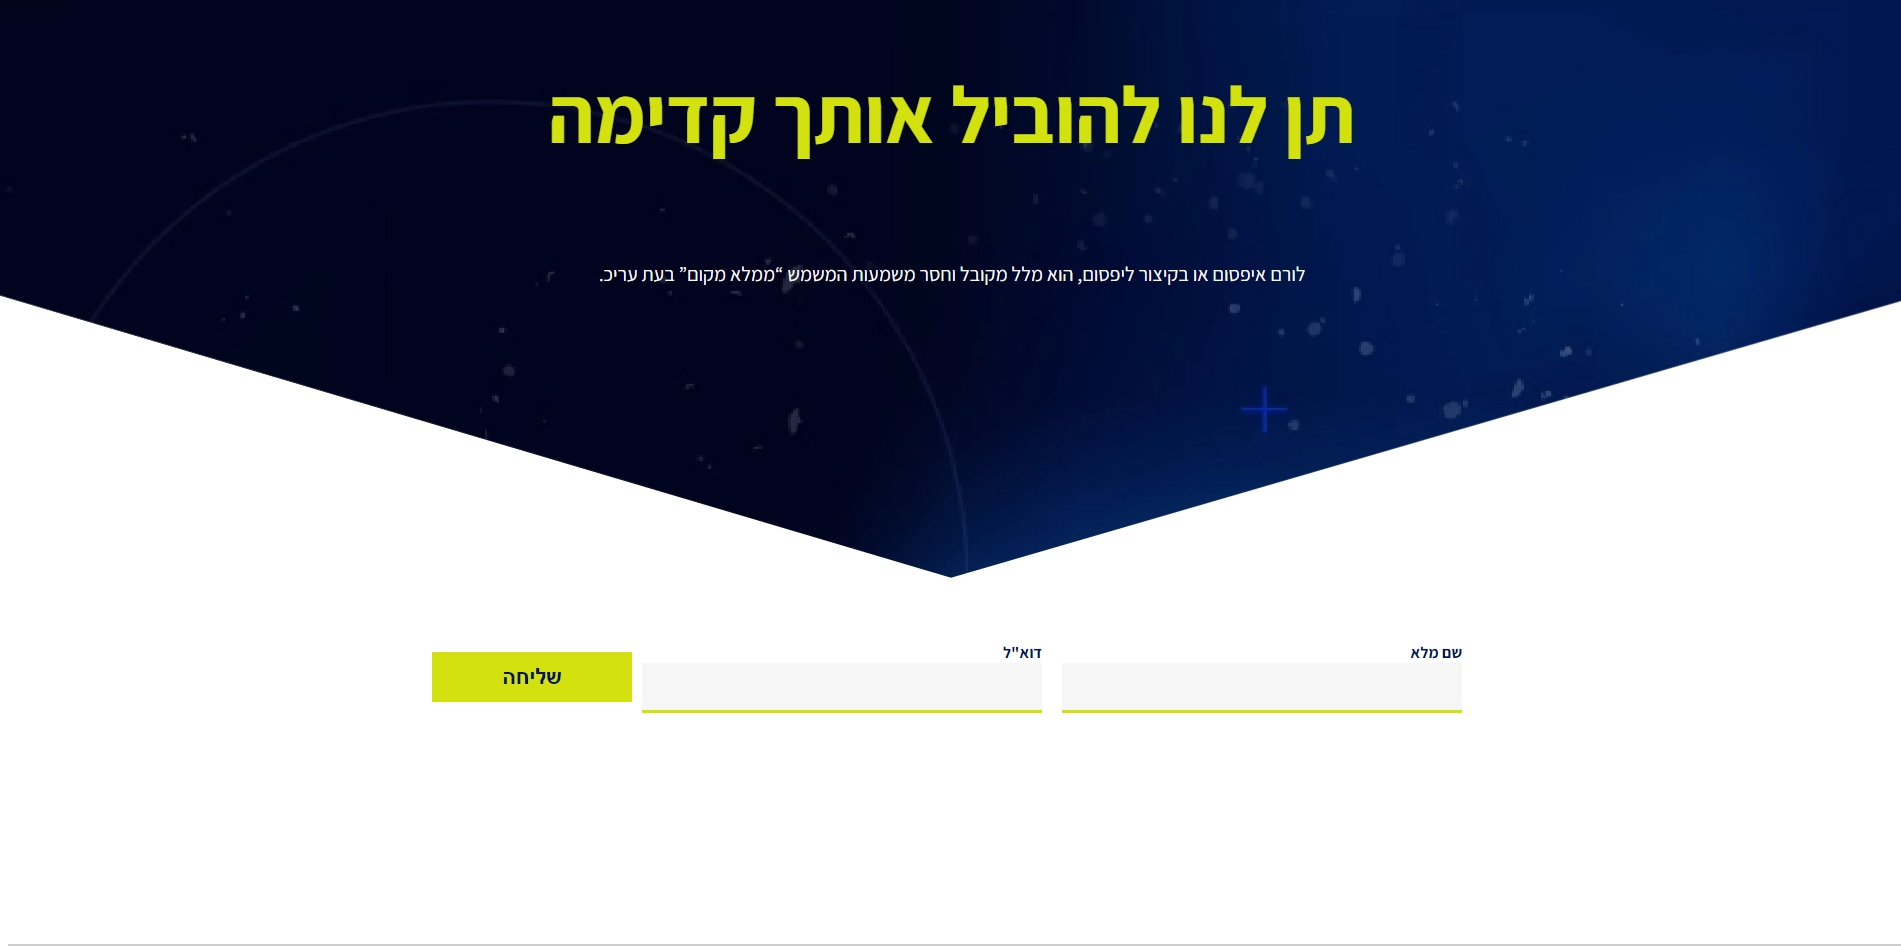
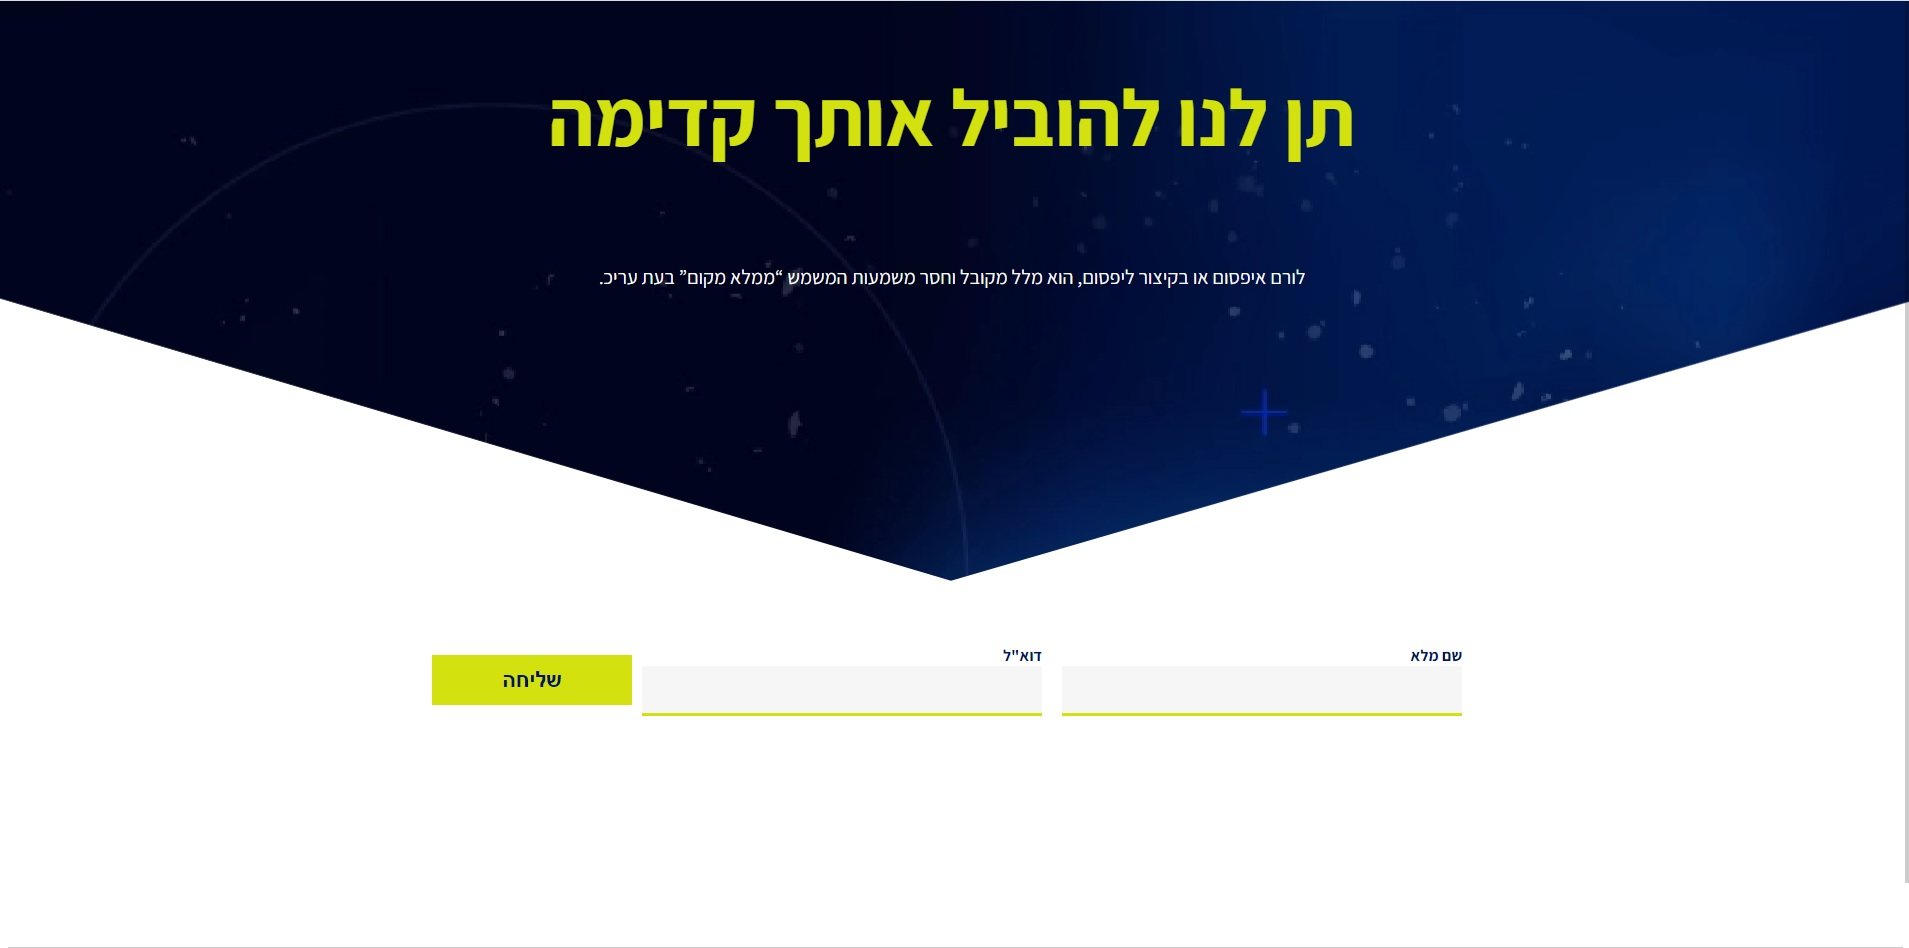
commit

diff --git a/Portfolio  Maya Shteinberg/main page/index.html b/Portfolio  Maya Shteinberg/main page/index.html
@@ -120,6 +120,7 @@
                   <img class="card-img-top" src="../projects/project-pages/project-page 5/assets/project5.jpg" alt="Card mage">
                   <div class="card-body">
                       <h4 class="card-title"> תן לנו להוביל אותך קדימה</h4>
+                      <br>
                       <p class="card-text">דף נחיתה אשר נבנה באמצעות HTML ו- CSS.</p>  
                       <a href="../projects/project-pages/project-page 5/project_page_5.html" class="btn btn-info">לעמוד הפרוייקט >> </a>
                   </div>

diff --git a/Portfolio  Maya Shteinberg/main page/style.css b/Portfolio  Maya Shteinberg/main page/style.css
@@ -147,6 +147,7 @@ a.nav-link {
 }
 #gallery .row .card .card-body {
   padding: 2rem 1rem;
+  overflow: scroll;
 }
 #gallery .row .card .card-body h4 {
   font-size: 25px;

diff --git a/Portfolio  Maya Shteinberg/main page/style.scss b/Portfolio  Maya Shteinberg/main page/style.scss
@@ -163,6 +163,7 @@ a.nav-link {
       
        .card-body {
         padding: 2rem 1rem;
+        overflow: scroll;
         
         h4 {
           font-size: 25px;
